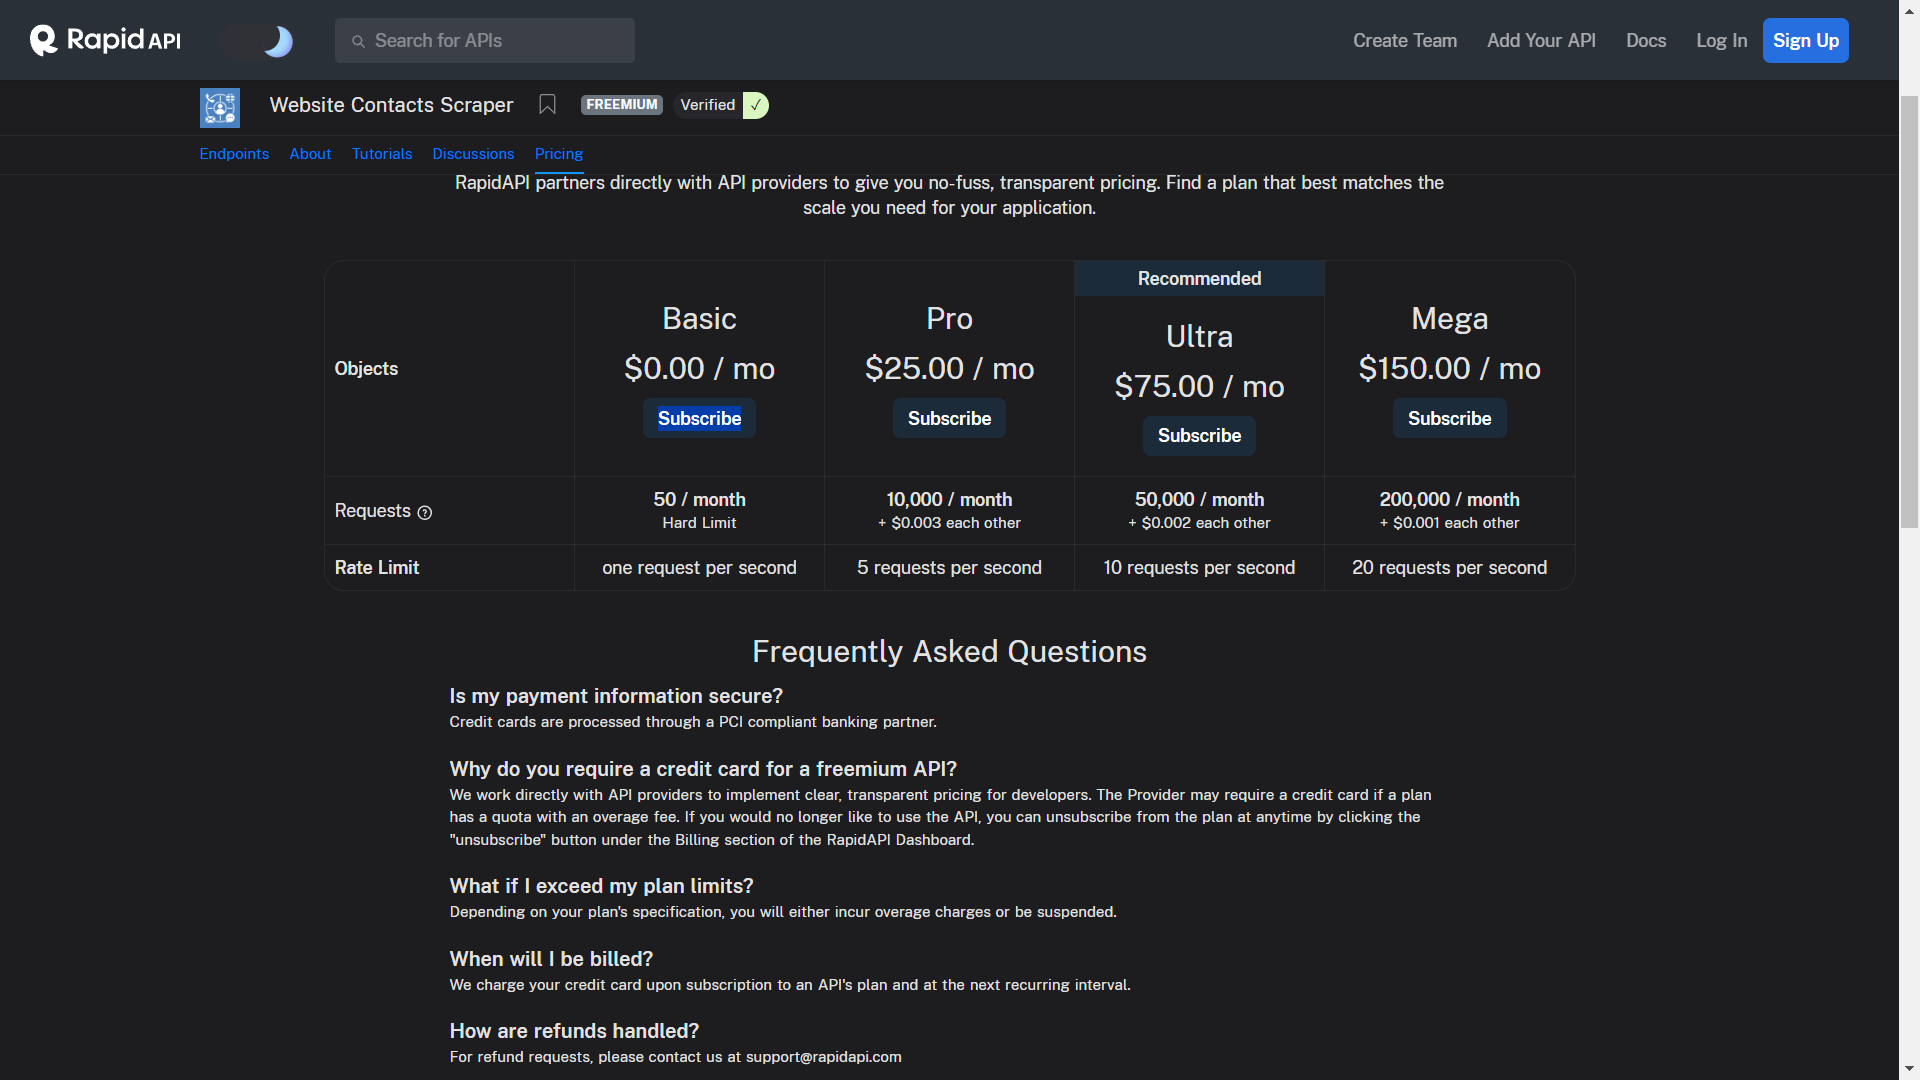
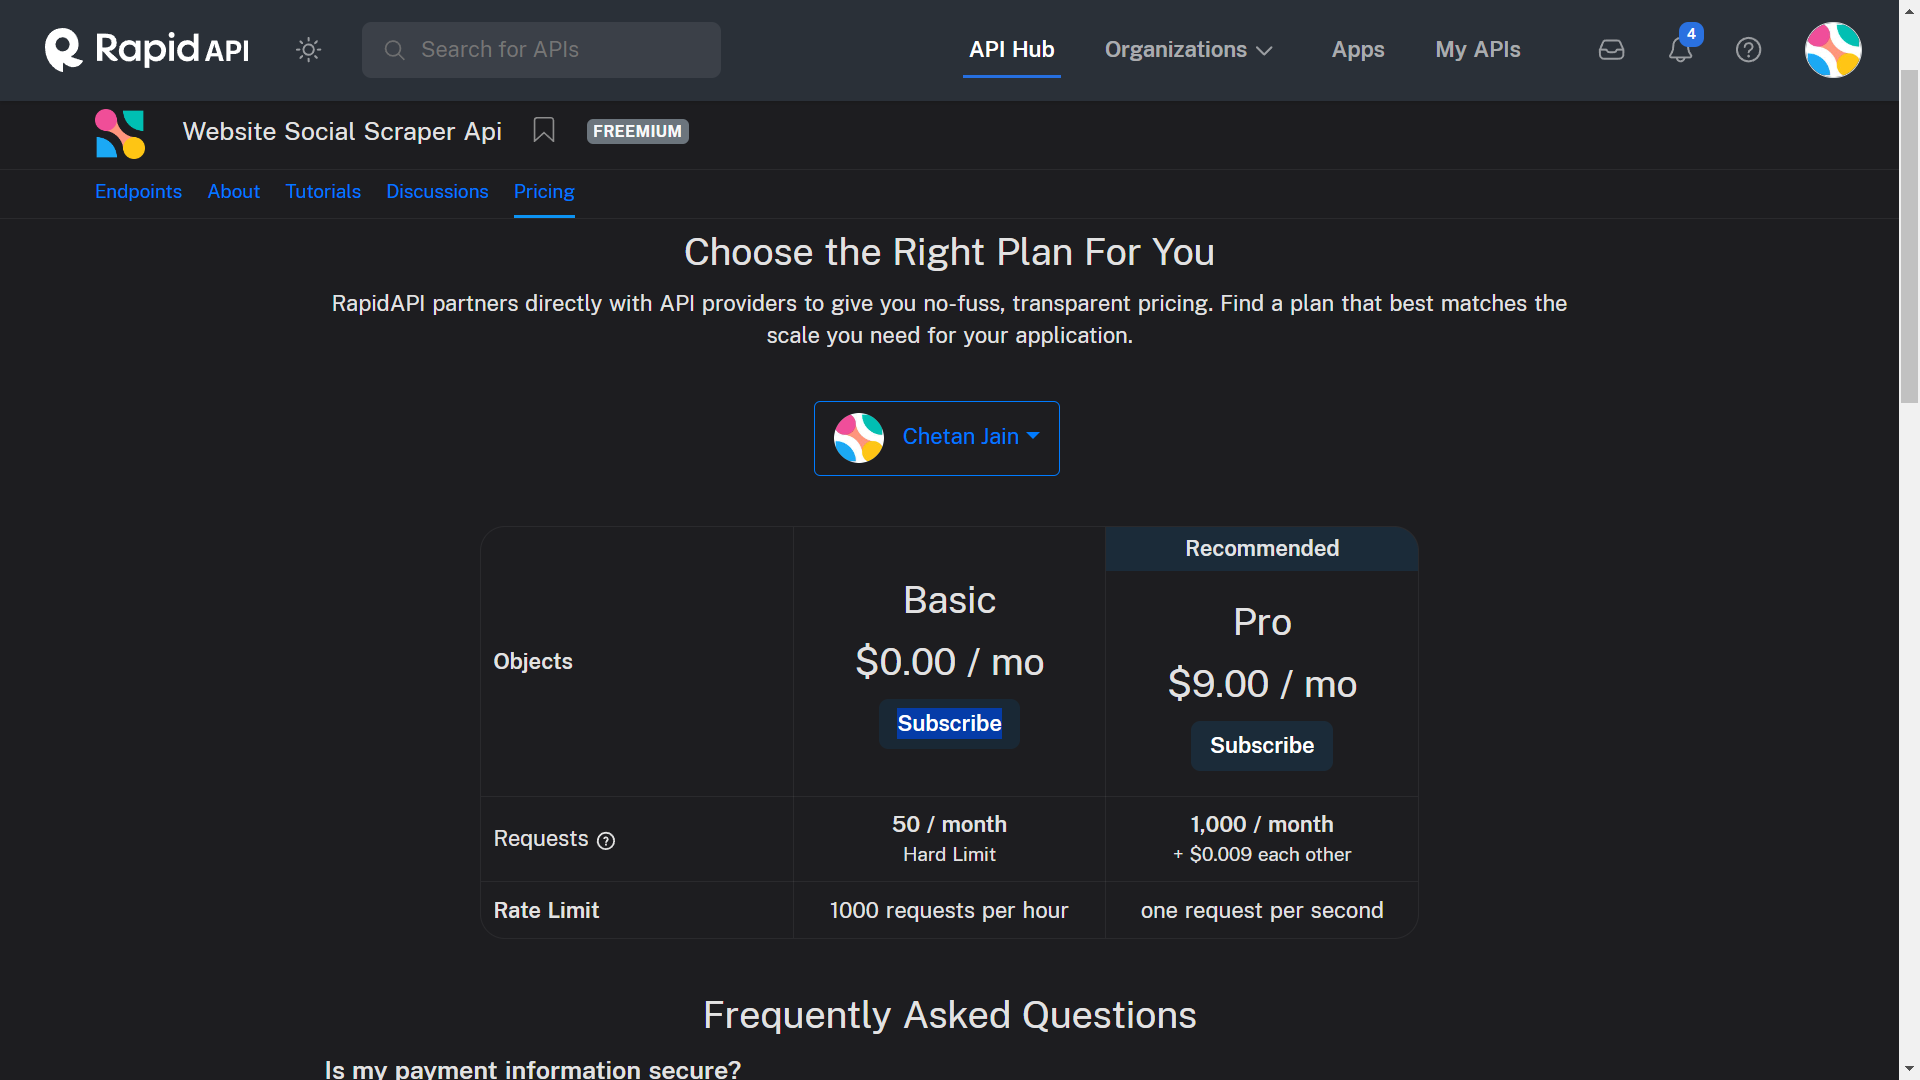
fixes

diff --git a/src/write_output.py b/src/write_output.py
@@ -166,16 +166,16 @@ def transform_places(places, fields):
                 transformed_place['owner_profile_link'] = place['owner']['link']
 
             elif field == Fields.EMAILS:
-                emails = [email["value"] for email in place.get("emails", [])]
-                emails_with_sources = [f"{email['value']}: {len(email['sources'])}" for email in place.get("emails", [])]
+                emails = place.get("emails", [])
+                # emails_with_sources = [f"{email['value']}: {len(email['sources'])}" for email in place.get("emails", [])]
                 transformed_place[Fields.EMAILS] = ", ".join(emails)
-                transformed_place["emails_with_number_of_sources"] = "\n".join(emails_with_sources)
+                # transformed_place["emails_with_number_of_sources"] = "\n".join(emails_with_sources)
 
             elif field == Fields.PHONES:
-                phones = [phone["value"] for phone in place.get("phones", [])]
-                phones_with_sources = [f"{phone['value']}: {len(phone['sources'])}" for phone in place.get("phones", [])]
+                phones = place.get("phones", [])
+                # phones_with_sources = [f"{phone['value']}: {len(phone['sources'])}" for phone in place.get("phones", [])]
                 transformed_place[Fields.PHONES] = ", ".join(phones)
-                transformed_place["phones_with_number_of_sources"] = "\n".join(phones_with_sources)
+                # transformed_place["phones_with_number_of_sources"] = "\n".join(phones_with_sources)
 
             elif field == Fields.CATEGORIES:
                 # Concatenating categories
@@ -403,11 +403,11 @@ def create(places, selected_fields, csv_path, json_path, query_kebab):
             create_places_csv(places_path_csv, places, selected_fields)
 
         
-        if can_create_email_phone_details_csv(selected_fields):
-            email_phone_details_path = csv_path  + format(query_kebab, "csv", "email-phone-details") 
-            # ".csv"
-            written.append(email_phone_details_path)
-            create_email_phone_details_csv(email_phone_details_path, places, selected_fields)
+        # if can_create_email_phone_details_csv(selected_fields):
+        #     email_phone_details_path = csv_path  + format(query_kebab, "csv", "email-phone-details") 
+        #     # ".csv"
+        #     written.append(email_phone_details_path)
+        #     create_email_phone_details_csv(email_phone_details_path, places, selected_fields)
 
         if can_create_detailed_reviews_csv(selected_fields):
             detailed_reviews_path = csv_path + format(query_kebab, "csv", "detailed-reviews") 

diff --git a/src/gmaps.py b/src/gmaps.py
@@ -55,10 +55,10 @@ def clean_social(social_details):
 def print_social_errors(credits_exhausted, not_subscribed, unknown_error):
     # print(credits_exhausted)
     if credits_exhausted:
-        print(f"Could not get social details for {len(credits_exhausted)} places due to credit exhaustion. Please consider upgrading your plan by visiting https://rapidapi.com/letscrape-6bRBa3QguO5/api/website-contacts-scraper/pricing to continue scraping social details.")
+        print(f"Could not get social details for {len(credits_exhausted)} places due to credit exhaustion. Please consider upgrading your plan by visiting https://rapidapi.com/Chetan11dev/api/website-social-scraper-api/pricing to continue scraping social details.")
 
     if not_subscribed:
-        print(f"Could not get social details for {len(not_subscribed)} places as you are not subscribed to Website Contacts Scraper. Please subscribe to a free plan by visiting https://rapidapi.com/letscrape-6bRBa3QguO5/api/website-contacts-scraper/pricing to scrape social details.")
+        print(f"Could not get social details for {len(not_subscribed)} places as you are not subscribed to Website Social Scraper. Please subscribe to a free plan by visiting https://rapidapi.com/Chetan11dev/api/website-social-scraper-api/pricing to scrape social details.")
 
     if unknown_error:
         print(f"Could not get social details for {len(unknown_error)} places due to Unknown Error.")

diff --git a/src/social_scraper.py b/src/social_scraper.py
@@ -21,11 +21,11 @@ def do_request(data, retry_count=3):
         print(f"Failed to get Social details for {website}, after 3 retries")
         return DontCache(None)
 
-    url = "https://website-contacts-scraper.p.rapidapi.com/scrape-contacts"
-    querystring = {"query": website, "match_email_domain": "false"}
+    url = "https://website-social-scraper-api.p.rapidapi.com/contacts/"
+    querystring = {"website": website}
     headers = {
         "X-RapidAPI-Key": key,
-        "X-RapidAPI-Host": "website-contacts-scraper.p.rapidapi.com"
+        "X-RapidAPI-Host": "website-social-scraper-api.p.rapidapi.com"
     }
 
     
@@ -34,18 +34,13 @@ def do_request(data, retry_count=3):
     if response.status_code == 200:
         update_credits()
 
-        final = response_data.get('data', [None])[0]
+        final = response_data
+        # .get('data', [None])[0]
         
         if "pinterest" not in final:
             final["pinterest"] = None
 
-        final["phones"] = final["phone_numbers"]
-        
-
-        del final["phone_numbers"]
-        del final["domain"]
-        del final["query"]
-
+     
         
         return {
             "place_id": place_id,

diff --git a/README.md b/README.md
@@ -227,15 +227,13 @@ Instead, use a more effective strategy:
 
 This strategy allows prospects to learn about you before engaging, significantly increasing the likelihood of making a sale.
 
-To gather contact details of leads, please consider using the 'Website Contacts Scraper API' by OpenWeb Ninja. 
-
-Follow these simple steps to integrate the API:
+To scrape contact details of leads, follow these steps to use our Website Social Scraper API with the Free Plan, allowing you to scrape contact details of 50 leads at no cost:
 
 1. Sign up on RapidAPI by visiting [this link](https://rapidapi.com/auth/sign-up).
    
 ![Sign Up on RapidAPI](https://raw.githubusercontent.com/omkarcloud/google-maps-scraper/master/screenshots/sign-up.png)
 
-2. Subscribe to the Free Plan by visiting [this link](https://rapidapi.com/letscrape-6bRBa3QguO5/api/website-contacts-scraper/pricing).
+2. Subscribe to the Free Plan by visiting [this link](https://rapidapi.com/Chetan11dev/api/website-social-scraper-api/pricing).
 
 ![Subscribe to Free Plan](https://raw.githubusercontent.com/omkarcloud/google-maps-scraper/master/screenshots/subscribe.png)
 
@@ -248,8 +246,11 @@ queries = ["web developers in bangalore"]
 Gmaps.places(queries, max=5, key="YOUR_API_KEY") 
 ```
 5. Run the script, and you'll find emails, Facebook, Twitter, and LinkedIn details of leads in your output file.
+```bash
+python main.py
+```   
 
-The first 40 emails are free, after which it costs $25 for 10,000 scrapes, which is affordable considering if you land just one B2B client, you could easily make hundreds of dollars, easily covering the investment.
+The first 50 contact details are free. After that, you can upgrade to the Pro Plan to scrape 1,000 contacts for $9, which is affordable considering if you land just one B2B client, you could easily make hundreds of dollars, easily covering the investment.
 
 ### ❓ How to scrape all cities in my country?
 
